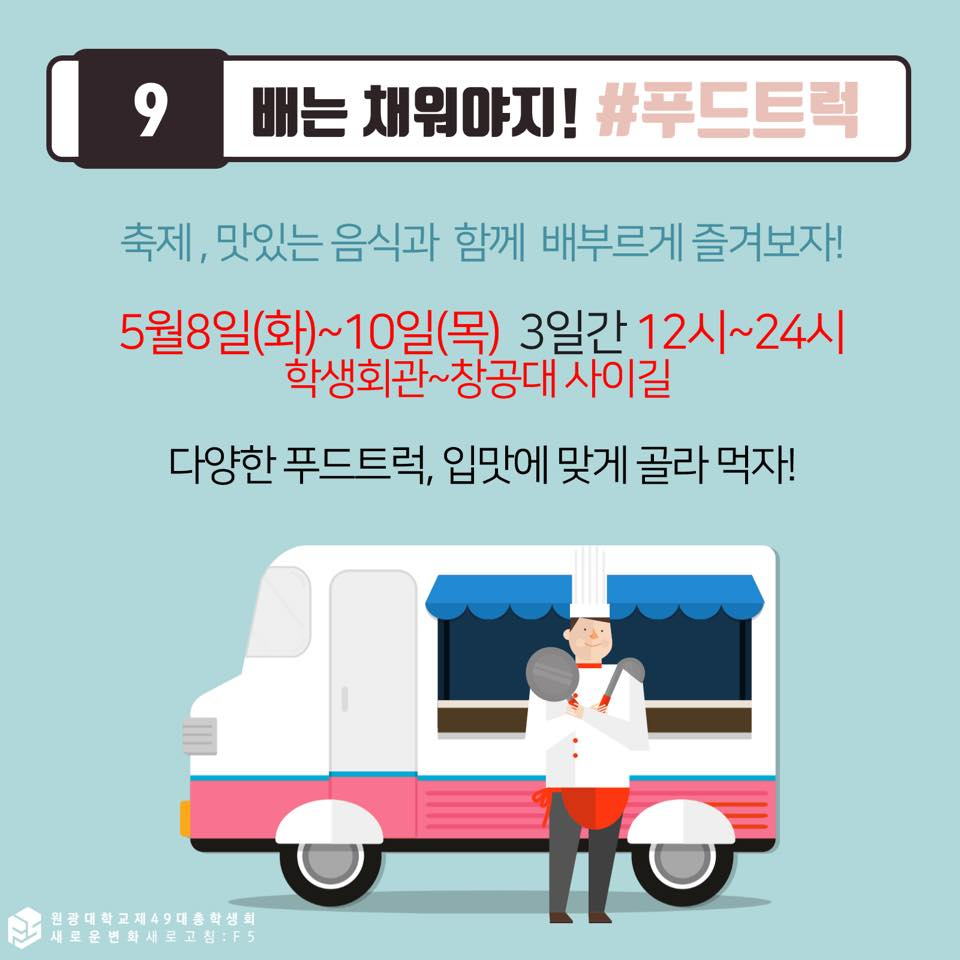
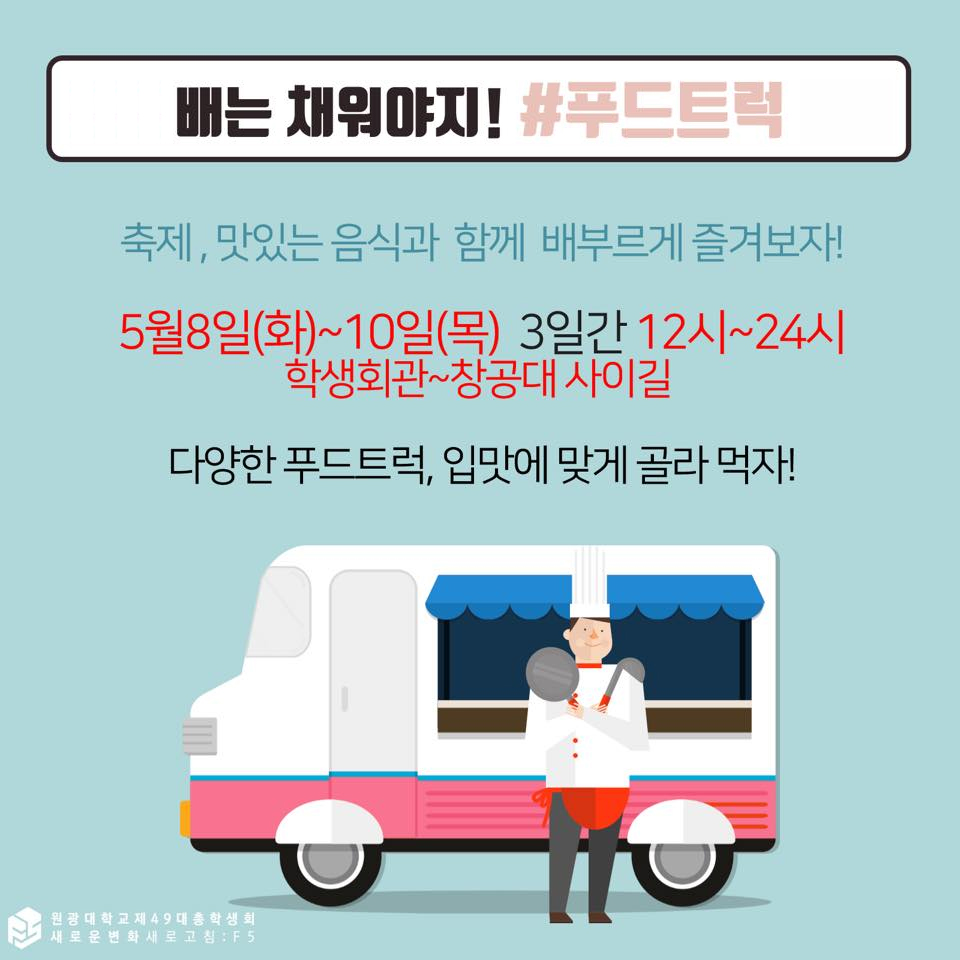
일정 내용 수정

Changed region(s): [[0.0625, 0.0312, 0.9062, 0.1875]]

diff --git a/home/templates/home/calendar.html b/home/templates/home/calendar.html
@@ -26,6 +26,12 @@
         </p>
     </div>
 
+    <div class="col-sm-12 col-md-12">
+        <img class="calendar-img img-fluid" src="{% static 'image/schedule.jpg' %}">
+    </div>
+
+   
+
     <!-- 한복 대여 포토존 -->
     <div class="col-sm-12 col-md-12">
         <h3 class="calendar-title">5월 8일 ~ 5월 10일</h3>
@@ -33,7 +39,7 @@
 
     <div class="col-sm-12 col-md-6" >
         <a href="#hanbok" data-toggle="collapse" aria-expanded="false" aria-controls="hanbok">
-            <img class="calendar-img img-fluid" src="{% static 'image/photozone.jpg' %}">
+            <img class="calendar-img img-fluid" src="{% static 'image/hanbok.jpg' %}">
         </a>
     </div>
     <div class="collapse in col-sm-12 col-md-6" id="hanbok">
@@ -65,6 +71,36 @@
     </div>
 
     <div class="col-sm-12 col-md-6">
+        <a href="#stage" data-toggle="collapse" aria-expanded="false" aria-controls="stage">
+            <img class="calendar-img img-fluid" src="{% static 'image/stage.jpg' %}">
+        </a>
+    </div>
+    
+    <div class="collapse col-sm-12 col-md-6" id="stage">
+        <h3 class="content-title"> # 메인 무대 </h3>
+        <p class="calendar-content">
+            <br/>▶ 기 간 : 2018년 5월 8일(화) ~ 5월 10일(목)
+            <br/>▶ 5/8(화) WINNER
+            <br/>▶ 5/9(수) 유병재(토크콘서트), 헤이즈
+            <br/>▶ 5/10(목) 봉황가요제, ZICO, 현아
+            <br/>스탠딩석에 한하여 재학생 우선으로 입장 통제!
+            <br/>오후 6시부터 입장할 것이며, 스탠딩석 입구에서 학생증, 웹정보 등 재학생 확인 후 손등에 스탬프를 찍어드릴 예정입니다.
+        </p>
+    </div>
+    
+    <div class="col-sm-12 col-md-6">
+        <img class="calendar-img img-fluid" src="{% static 'image/night.jpg' %}">
+    </div>
+
+    <div class="col-sm-12 col-md-6">
+        <img class="calendar-img img-fluid" src="{% static 'image/club.jpg' %}">
+    </div>
+
+    <div class="col-sm-12 col-md-6">
+        <img class="calendar-img img-fluid" src="{% static 'image/freemarket.jpg' %}">
+    </div>
+    
+    <div class="col-sm-12 col-md-6">
         <a href="#food_truck" data-toggle="collapse" aria-expanded="false" aria-controls="food_truck">
             <img class="calendar-img img-fluid" src="{% static 'image/foodtruck.jpg' %}">
         </a>
@@ -77,6 +113,22 @@
             <br/>▶ 시 간 : PM 12:00 ~ 24:00
             <br/>▶ 장 소 : 학생회관 ~ 창공대 사이길
             <br/>다양한 푸드트럭, 입맞에 맞게 골라 먹자!
+            <br/>▶ 푸드트럭 리스트
+            <br/>✔ 유레카 - 닭강정 
+            <br/>✔ 오타코 - 타코야끼 
+            <br/>✔ 펀펀푸드 - 왕닭꼬치 
+            <br/>✔ 길또랑 - 부챗살 스테이크 
+            <br/>✔ 봉다리군 - 봉지칵테일 40종 
+            <br/>✔ 롤링인더도그 - 우삼겹샌드위치 
+            <br/>✔ 펭닭 - 펭닭치즈호떡, 또디아펭닭 
+            <br/>✔ 떡모 - 떡볶이, 오뎅, 튀김, 핫도그 
+            <br/>✔ YOLO - 쉬림프꼬치, 쉬림프볶음밥 
+            <br/>✔ 알로하 플라밍고 - 벨기에와플, 아이스크림 
+            <br/>✔ 방랑마법사 - 소시지, 크레이지독, 칠리치즈범 
+            <br/>✔ 쇼쿠지 - 햄치즈카케, 쇼가야끼돈, 치즈고로케
+            <br/>✔ 청년탕수육 - 청년탕수육, 갈릭탕수육, 매콤탕
+            <br/>✔ 오빠곱창 - 야채곱창볶음, 오돌뼈, 찰순대볶음수육 
+            <br/>✔ 피자카 - 고르곤졸라, 마르게리타, 허니버터베이컨, 시카고숯불베이컨
         </p>
     </div>
 
